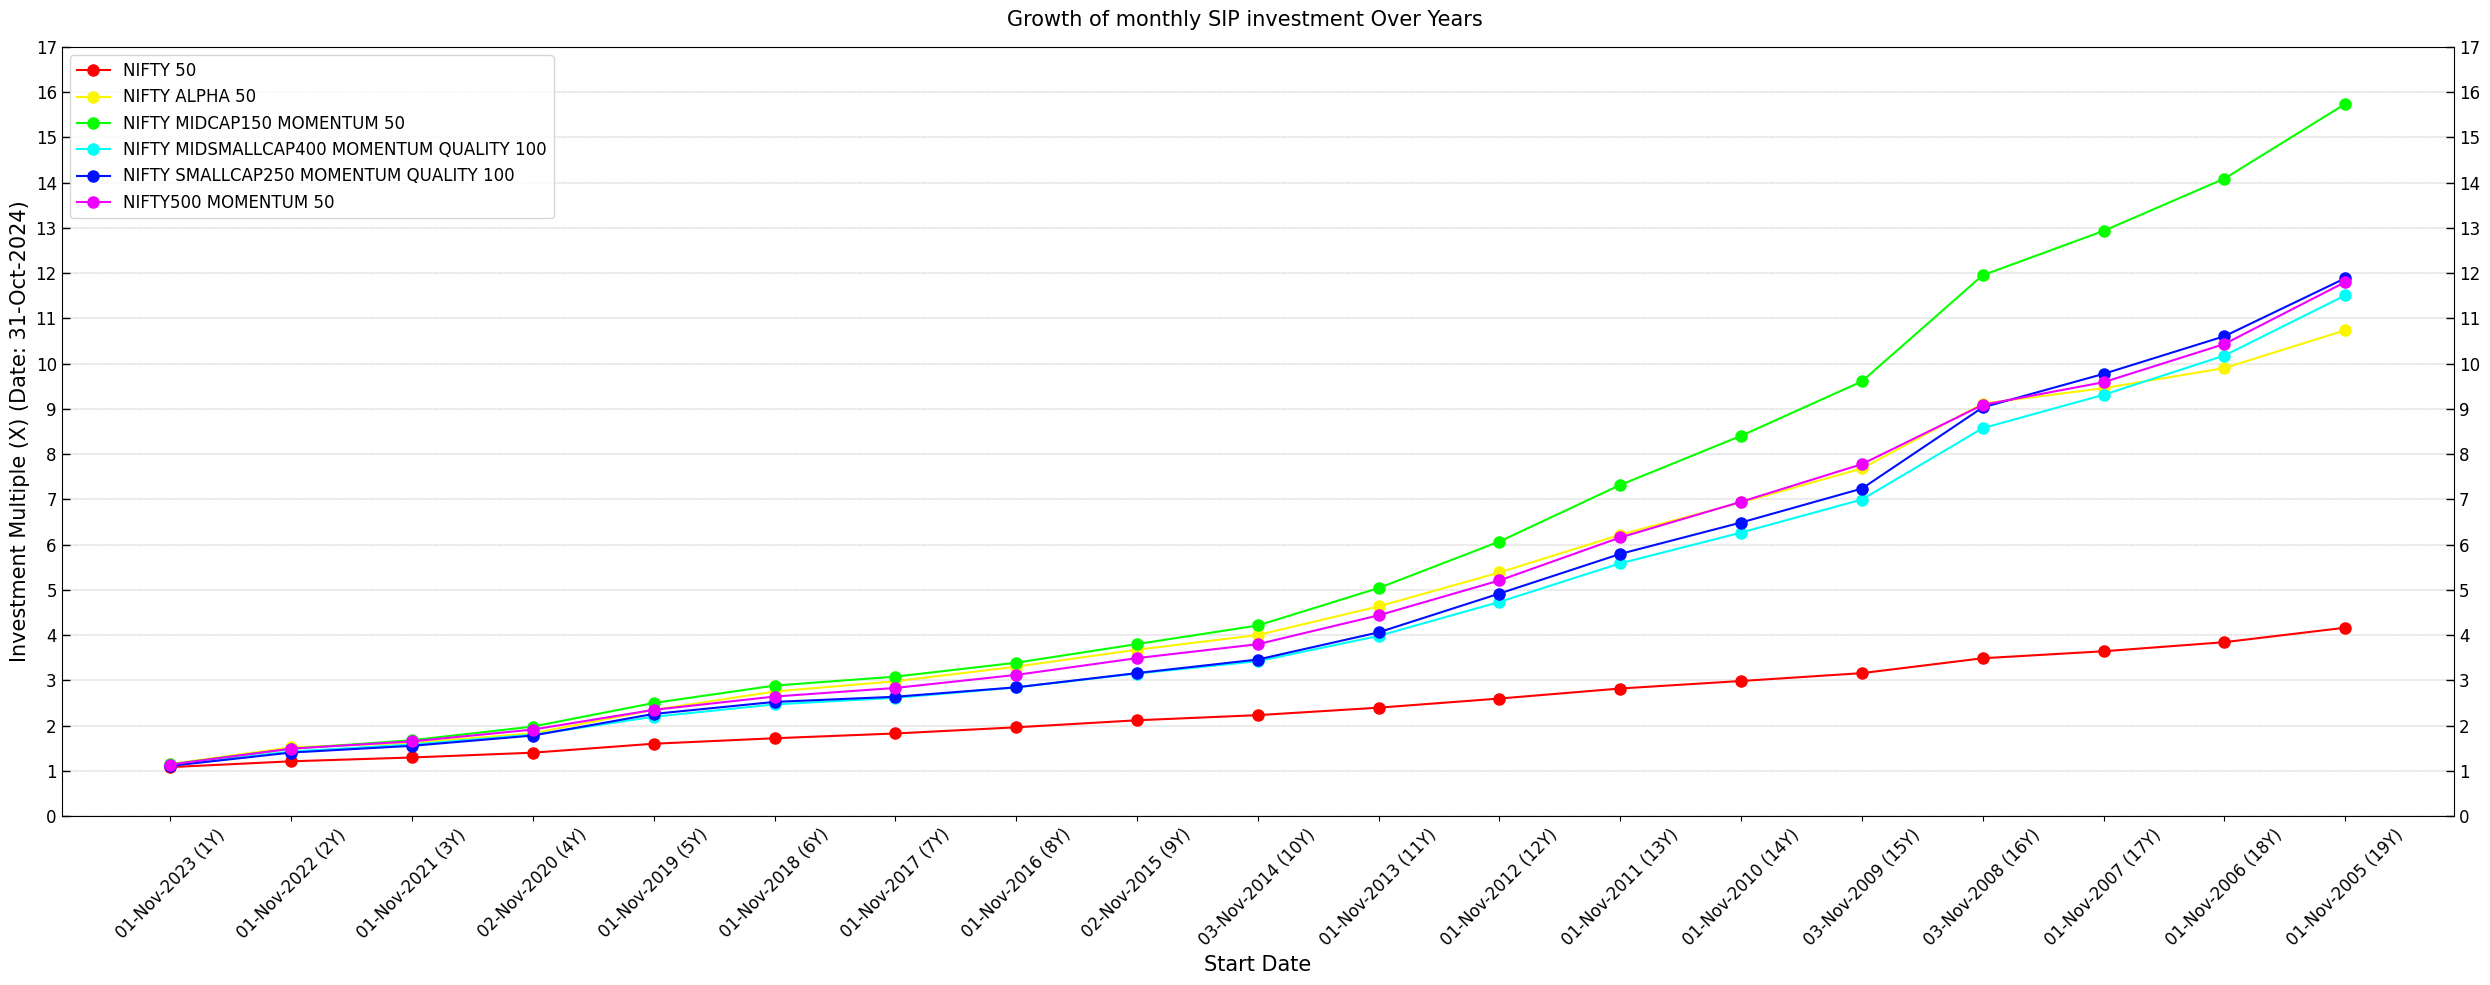
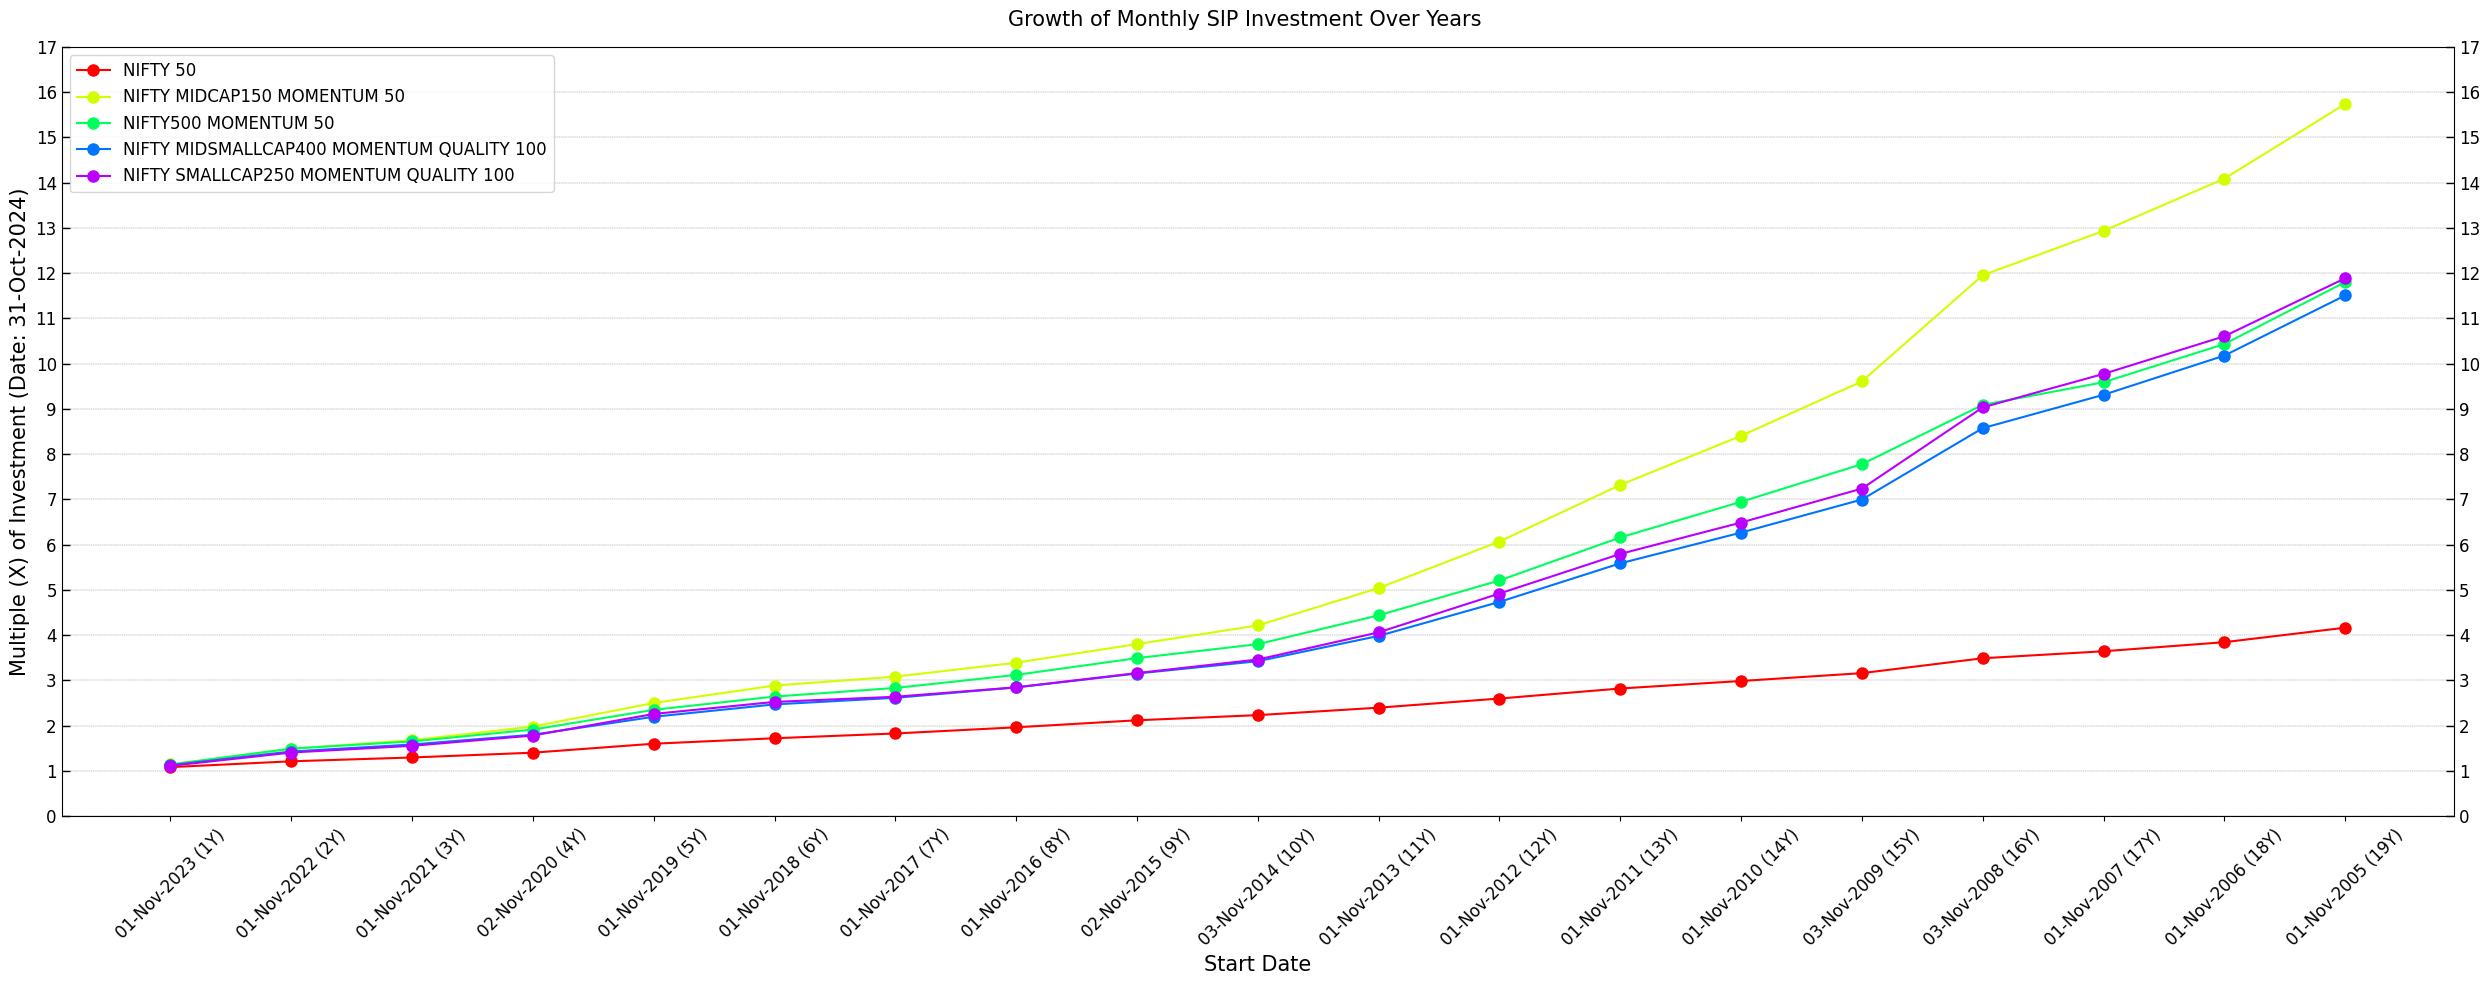
version 0.1.8

diff --git a/BharatFinTrack/visual.py b/BharatFinTrack/visual.py
@@ -132,7 +132,7 @@ class Visual:
 
         # legend
         subplot.legend(
-            title="Index Category",
+            title='Index Category',
             loc='lower right',
             fontsize=12,
             title_fontsize=12
@@ -514,11 +514,12 @@ class Visual:
         index: str,
         excel_file: str,
         figure_file: str,
-        ytick_gap: int = 250
+        ytick_gap: int = 500
     ) -> matplotlib.figure.Figure:
 
         '''
-        Returns a bar plot of investment and returns over years for a specified index.
+        Generates and returns a bar plot of investments and returns for a
+        monthly SIP of 1,000 Rupees over the years for a specified index.
 
         Parameters
         ----------
@@ -538,7 +539,8 @@ class Visual:
         Returns
         -------
         Figure
-            A bar plot displaying invest and returns over years for a specified index.
+            A bar plot displaying the investment and returns of a
+            monthly SIP of 1,000 Rupees over years for the specified index.
         '''
 
         # check validity of input figure file path
@@ -632,7 +634,7 @@ class Visual:
             axis='y', which='both',
             direction='in', length=6, width=1,
             left=True, right=True,
-            labelleft=True
+            labelleft=True, labelright=True
         )
         subplot.grid(
             visible=True,
@@ -640,8 +642,9 @@ class Visual:
             color='gray',
             linestyle='--', linewidth=0.3
         )
+        close_date = df['Close Date'].iloc[0].strftime('%d-%b-%Y')
         subplot.set_ylabel(
-            ylabel=f'Amount (Date: {df['Close Date'].iloc[0].strftime("%d-%b-%Y")})',
+            ylabel=f'Amount (Date: {close_date})',
             fontsize=15
         )
 
@@ -653,7 +656,7 @@ class Visual:
 
         # figure customization
         figure_title = (
-            f'{index.upper()}: Invest and Return of monthly SIP {monthly_invest} Rupees Over Years'
+            f'{index.upper()}: Invest and Return with Multiples (X) and XIRR (%) of Monthly SIP {monthly_invest} Rupees Over Years'
         )
         figure.suptitle(
             t=figure_title,
@@ -670,7 +673,7 @@ class Visual:
 
         return figure
 
-    def plot_sip_index_vs_bank_returns(
+    def plot_sip_index_vs_gsec(
         self,
         index: str,
         excel_file: str,
@@ -680,7 +683,8 @@ class Visual:
     ) -> matplotlib.figure.Figure:
 
         '''
-        Returns a bar plot of investment and returns over years for a specified index.
+        Generates a bar plot comparing the returns of a specified index
+        and government bonds for a monthly SIP of 1,000 Rupees over the years.'
 
         Parameters
         ----------
@@ -703,7 +707,8 @@ class Visual:
         Returns
         -------
         Figure
-            A bar plot displaying invest and returns over years for a specified index.
+            A bar plot showing the return comparison between the specified index
+            and government bonds for a monthly SIP of 1,000 Rupees over the years.
         '''
 
         # check validity of input figure file path
@@ -814,8 +819,9 @@ class Visual:
             color='gray',
             linestyle='--', linewidth=0.3
         )
+        close_date = df['Close Date'].iloc[0].strftime('%d-%b-%Y')
         subplot.set_ylabel(
-            ylabel=f'Amount (Date: {df['Close Date'].iloc[0].strftime("%d-%b-%Y")})',
+            ylabel=f'Amount (Date: {close_date})',
             fontsize=15
         )
 
@@ -827,7 +833,7 @@ class Visual:
 
         # figure customization
         figure_title = (
-            f'{index.upper()}: Invest and Return of monthly SIP {monthly_invest} Rupees Over Years'
+            f'{index.upper()}: Comparison Return Between Index and Government Bond of Monthly SIP {monthly_invest} Rupees Over Years'
         )
         figure.suptitle(
             t=figure_title,
@@ -901,8 +907,8 @@ class Visual:
                 dataframes.append(df)
 
         # check equal close date for all DataFrames
-        end_date = dataframes[0]['Close Date'].iloc[0]
-        equal_closedate = all(map(lambda df: df['Close Date'].iloc[0] == end_date, dataframes))
+        close_date = dataframes[0]['Close Date'].iloc[0]
+        equal_closedate = all(map(lambda df: df['Close Date'].iloc[0] == close_date, dataframes))
         if equal_closedate is True:
             pass
         else:
@@ -982,7 +988,7 @@ class Visual:
             linestyle='--', linewidth=0.3
         )
         subplot.set_ylabel(
-            ylabel=f'Investment Multiple (X) (Date: {df['Close Date'].iloc[0].strftime("%d-%b-%Y")})',
+            ylabel=f'Multiples (X) of Investment (Date: {close_date.strftime("%d-%b-%Y")})',
             fontsize=15
         )
 
@@ -994,7 +1000,7 @@ class Visual:
 
         # figure customization
         figure_title = (
-            'Growth of monthly SIP investment Over Years'
+            'Growth of Monthly SIP Investment Over Years'
         )
         figure.suptitle(
             t=figure_title,

diff --git a/tests/test_bharatfintrack.py b/tests/test_bharatfintrack.py
@@ -480,8 +480,8 @@ def test_sip(
         )
         assert os.path.exists(figure_file) is True
         # pass test for comparison plot of SIP for index and bank fixed depost
-        figure_file = os.path.join(tmp_dir, f'sip_index_vs_bank_{index}.png')
-        visual.plot_sip_index_vs_bank_returns(
+        figure_file = os.path.join(tmp_dir, f'sip_gsec_vs_{index}.png')
+        visual.plot_sip_index_vs_gsec(
             index=index,
             excel_file=input_excel,
             figure_file=figure_file,
@@ -644,7 +644,7 @@ def test_error_figure(
     assert exc_info.value.args[0] == message['error_figure']
 
     with pytest.raises(Exception) as exc_info:
-        visual.plot_sip_index_vs_bank_returns(
+        visual.plot_sip_index_vs_gsec(
             index='NIFTY 50',
             excel_file='NIFTY 50.xlsx',
             figure_file='figure_file.pn',

diff --git a/README.md b/README.md
@@ -32,17 +32,22 @@
 * Shows bar graphs of top-performing NSE equity indices by CAGR (%) since launch, with options to view a specified number of top indices, either overall or within each category.
 * Compares the growth of a monthly SIP investment across multiple NSE equity `TRI` indices over the years.
 * Depicts a bar graph of year-wise investments and returns for a monthly SIP of 1,000 Rupees in a specified NSE equity `TRI` index since its inception.
+* Provides a return comparison between a specified index and government bonds for a monthly SIP of 1,000 Rupees over the years.
 
 
 # Example Insights
-Using `BharatFinTrack`, you can quickly gain insights into the performance of NSE equity indices. For instance, the following bar plot highlights the top five NSE equity indices by `TRI` CAGR (%) within each category since launch. This snapshot provides a powerful visual for understanding long-term performance trends across different index categories. Since performance data updates with each trading day, you can replicate and customize this analysis to generate up-to-date insights tailored to your research needs or investment strategies.
+Using `BharatFinTrack`, you can quickly gain insights into the performance of NSE equity indices. For instance, the following bar plot highlights the top five NSE equity indices by `TRI` CAGR (%) within each category since their respective launches. This snapshot provides a powerful visual overview of long-term performance trends of investment multiples (X) across different index categories over the years. Because performance data updates daily with each trading session, you can replicate and customize this analysis to generate up-to-date insights tailored to your research needs or investment strategies.
 
 ![Category-wise Top Five TRI CAGR(%) of NSE Equity Indices](https://github.com/debpal/BharatFinTrack/raw/master/docs/_static/tri_top_cagr_by_category.png)
 
-In this graph, the `NIFTY MIDCAP150 MOMENTUM 50` stands out as one of the best-performing NSE equity `TRI` indices in terms of long-term CAGR. The following graph displays the year-wise investments and returns for a monthly SIP of 1,000 Rupees into a passive fund tracking the `TRI` data of `NIFTY MIDCAP150 MOMENTUM 50`.
+In this graph, the `NIFTY MIDCAP150 MOMENTUM 50` stands out as one of the best-performing NSE equity `TRI` indices in terms of long-term CAGR. The next graph illustrates the year-wise investments and returns, shown as investment multiples (X) and XIRR (%), for a monthly SIP of 1,000 Rupees in a passive fund tracking the `TRI` data of `NIFTY MIDCAP150 MOMENTUM 50`.
 
 
 ![Year-wise SIP analysis of NIFTY_MIDCAP150_MOMENTUM_50](https://github.com/debpal/BharatFinTrack/raw/master/docs/_static/sip_yearwise_NIFTY_MIDCAP150_MOMENTUM_50.png)
+
+Additionally, the following plot compares the growth of a monthly SIP investment across `TRI` indices, including `NIFTY 50` and several other top-performing NSE equity indices over the years.
+
+![Year-wise SIP growth comparison across multiple indices](https://github.com/debpal/BharatFinTrack/raw/master/docs/_static/sip_invest_growth_across_indices.png)
 
 ## Easy Installation
 

diff --git a/docs/visualization.rst b/docs/visualization.rst
@@ -85,21 +85,20 @@ The resulting plot will look similar to the example below.
    :align: left
    
    
-SIP Comparison
------------------
+SIP Comparison Across Indices
+-------------------------------
 
-A line plot comparing monthly SIP investment growth across multiple NSE equity `TRI` indices over the years. Data required to compute the SIP must be sourced from the Excel file generated in the :ref:`Total Return Index (TRI) <f_download_tri>` section. All Excel files must be stored in a folder and each Excel file must be named as ‘{index}.xlsx’ corresponding to the index names provided in the indices list.  
+A plot comparing the growth of a monthly SIP investment across `TRI` indices, including NIFTY 50 and several other top-performing NSE equity indices over the years. The data required for SIP calculations must be sourced from the Excel files generated in the :ref:`Total Return Index (TRI) <f_download_tri>` section. Ensure that all Excel files are stored in the designated input folder, with each file named as `{index}.xlsx` to correspond to the index names provided in the list of indices.
 
 
 .. code-block:: python
 
     index_list = [
         'NIFTY 50',
-        'NIFTY ALPHA 50',
         'NIFTY MIDCAP150 MOMENTUM 50',
+        'NIFTY500 MOMENTUM 50',
         'NIFTY MIDSMALLCAP400 MOMENTUM QUALITY 100',
         'NIFTY SMALLCAP250 MOMENTUM QUALITY 100',
-        'NIFTY500 MOMENTUM 50'
     ]
     
     visual.plot_sip_growth_comparison_across_indices(

diff --git a/docs/introduction.rst b/docs/introduction.rst
@@ -38,4 +38,5 @@ Visualization
 * Shows bar graphs of top-performing NSE equity indices by CAGR (%) since launch, with options to view a specified number of top indices, either overall or within each category.
 * Compares the growth of a monthly SIP investment across multiple NSE equity `TRI` indices over the years.
 * Depicts a bar graph of year-wise investments and returns for a monthly SIP of 1,000 Rupees in a specified NSE equity `TRI` index since its inception.
+* Provides a return comparison between a specified index and government bonds for a monthly SIP of 1,000 Rupees over the years.
     

diff --git a/docs/changelog.rst b/docs/changelog.rst
@@ -5,7 +5,7 @@ Release Notes
 Version 0.1.8
 ---------------
 
-* **Release date:** 01-Nov-2024
+* **Release date:** 02-Nov-2024
   
 * **Feature Additions:** 
 
